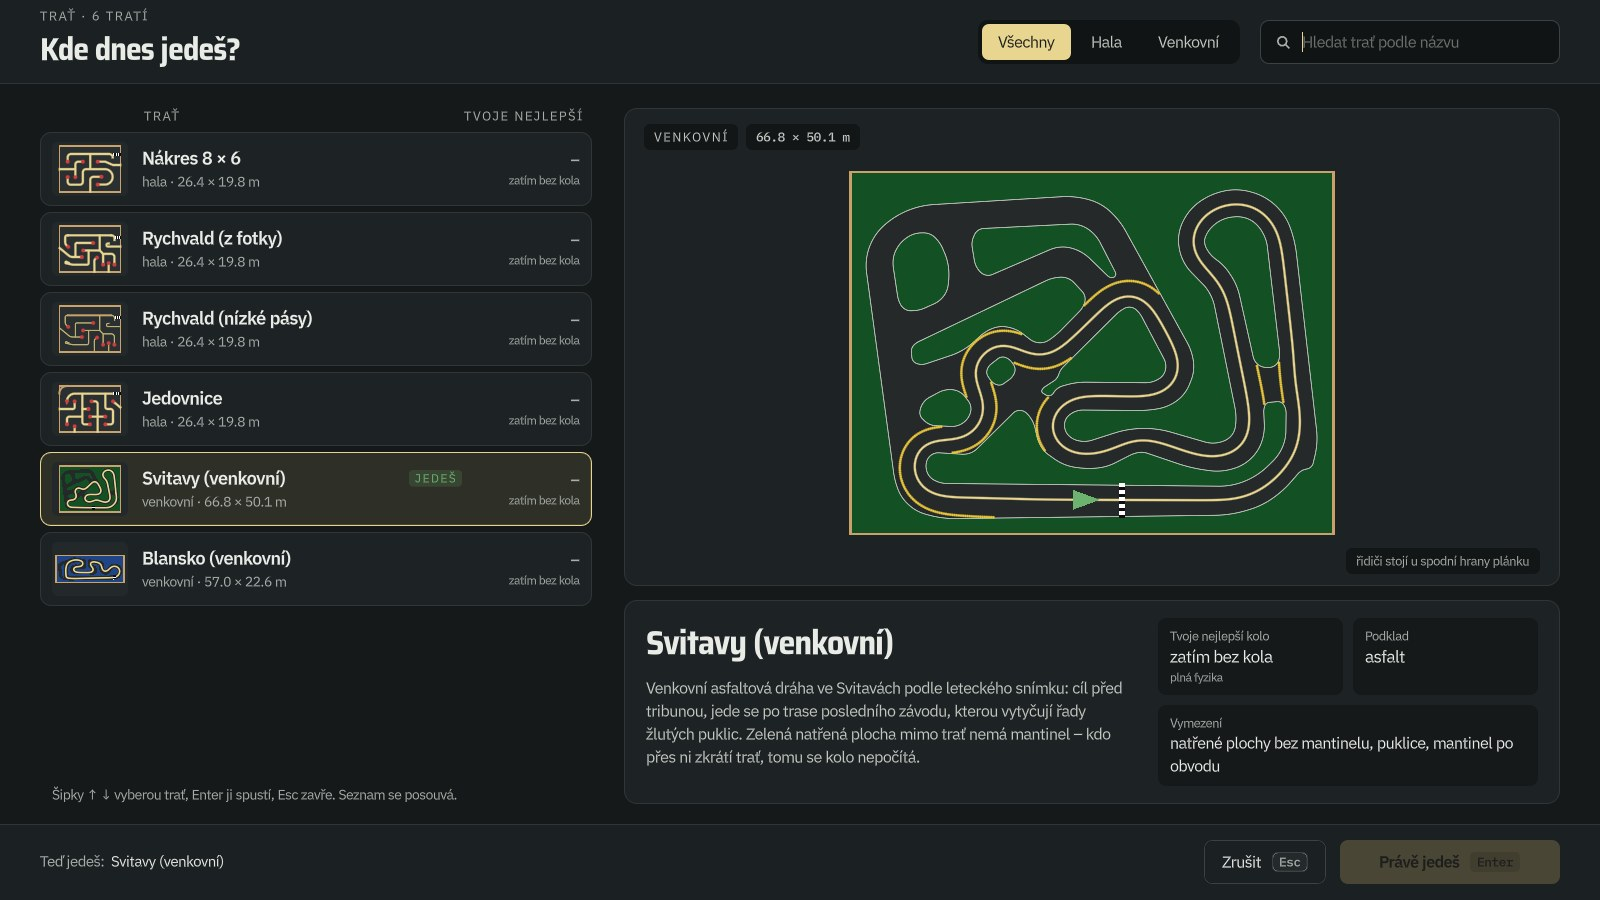
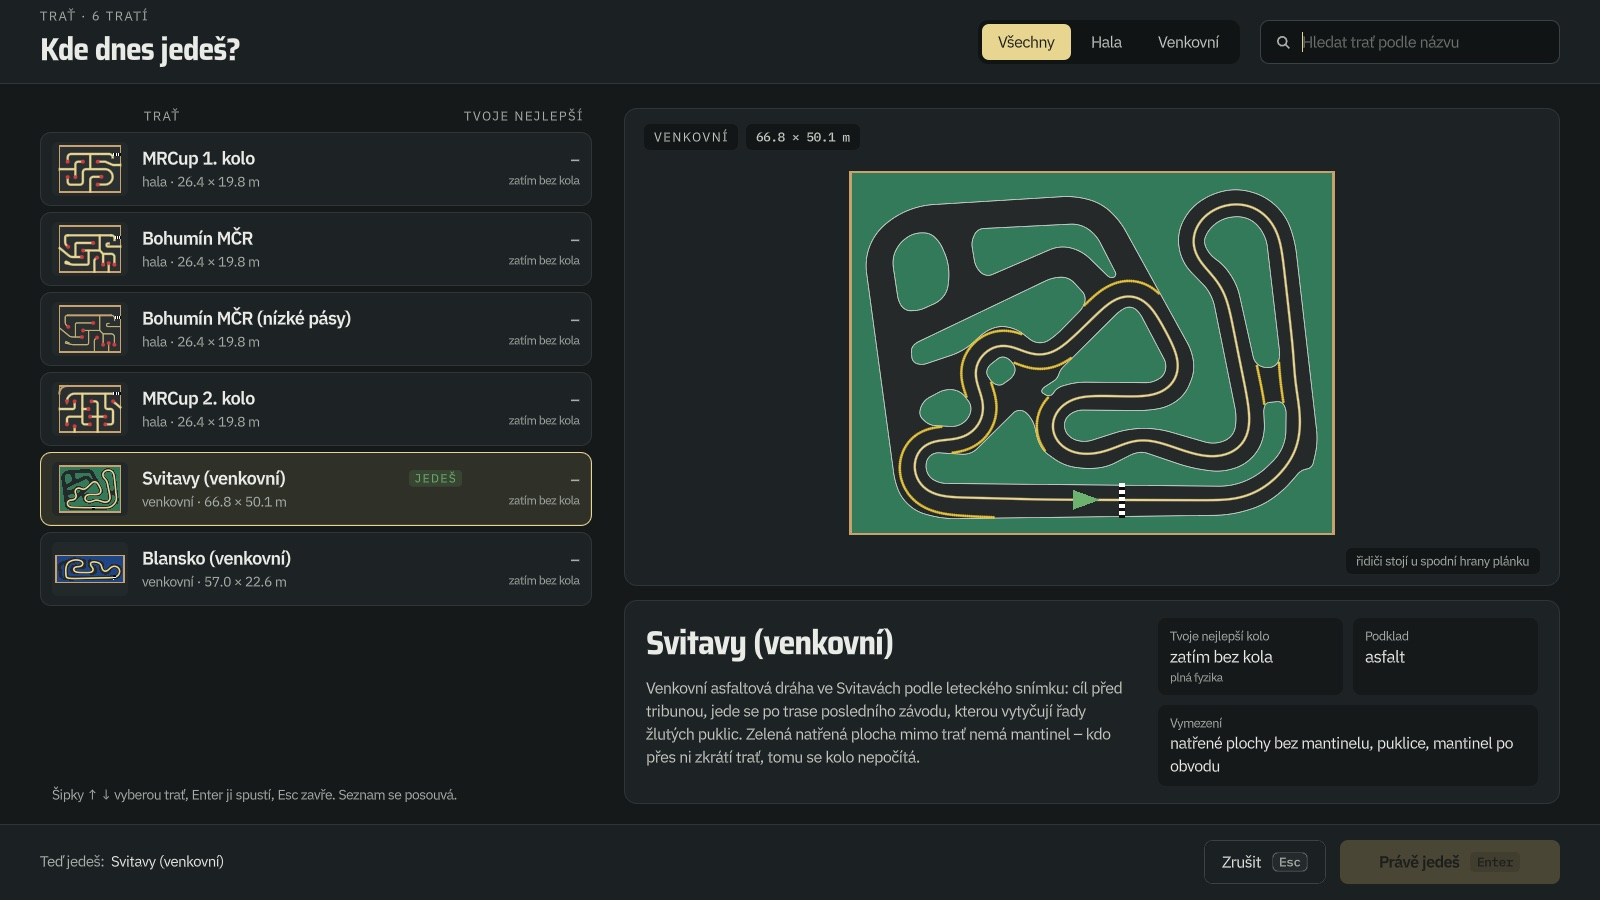
Verze 0.66: nové názvy halových drah
Tabule kol autopilota, odstavec o tratích a popisek snímku shora mají
názvy MRCup 1. kolo, MRCup 2. kolo a Bohumín MČR (anglicky MRCup round 1,
MRCup round 2 a Bohumín Nationals). Nové snímky menu a výběru trati.

diff --git a/index.html b/index.html
@@ -282,16 +282,16 @@ footer .logo-sm { flex-basis: 100%; }
           <a class="btn-line" id="download-win" href="https://github.com/ibb-jile/onroad-rc-simulator/releases/latest/download/Onroad-RC-Simulator-Windows.zip"><span lang="cs">Windows (experimentální)</span><span lang="en">Windows (experimental)</span></a>
           <a href="#install"><span lang="cs">Jak nainstalovat</span><span lang="en">How to install</span></a>
         </div>
-        <p class="facts"><span lang="cs">Verze 0.65 · macOS 13 a novější · Mac s čipem Apple (M1 a novější) · zip 70 MB</span><span lang="en">Version 0.65 · macOS 13 or later · Mac with Apple silicon (M1 or later) · 70 MB zip</span></p>
+        <p class="facts"><span lang="cs">Verze 0.66 · macOS 13 a novější · Mac s čipem Apple (M1 a novější) · zip 70 MB</span><span lang="en">Version 0.66 · macOS 13 or later · Mac with Apple silicon (M1 or later) · 70 MB zip</span></p>
         <p class="facts"><span lang="cs">Windows 10 a 11 (64bit) · experimentální sestavení, na PC už běží · zip 53 MB</span><span lang="en">Windows 10 and 11 (64-bit) · experimental build, confirmed running on a PC · 53 MB zip</span></p>
       </div>
       <aside class="board" aria-label="Lap times">
         <span class="strip" aria-hidden="true"><i></i><i></i><i></i></span>
         <h3><span lang="cs">Autopilot · nejlepší kolo</span><span lang="en">Autopilot · best lap</span></h3>
         <table>
-          <tr><td><span lang="cs">Nákres 8 × 6</span><span lang="en">Sketch 8 × 6</span></td><td class="t">13.83<small>s</small></td></tr>
-          <tr><td>Rychvald</td><td class="t">15.58<small>s</small></td></tr>
-          <tr><td>Jedovnice</td><td class="t">13.45<small>s</small></td></tr>
+          <tr><td><span lang="cs">MRCup 1. kolo</span><span lang="en">MRCup round 1</span></td><td class="t">13.83<small>s</small></td></tr>
+          <tr><td><span lang="cs">Bohumín MČR</span><span lang="en">Bohumín Nationals</span></td><td class="t">15.58<small>s</small></td></tr>
+          <tr><td><span lang="cs">MRCup 2. kolo</span><span lang="en">MRCup round 2</span></td><td class="t">13.45<small>s</small></td></tr>
           <tr><td><span lang="cs">Svitavy (venkovní)</span><span lang="en">Svitavy (outdoor)</span></td><td class="t">17.99<small>s</small></td></tr>
           <tr><td><span lang="cs">Blansko (venkovní)</span><span lang="en">Blansko (outdoor)</span></td><td class="t">12.33<small>s</small></td></tr>
         </table>
@@ -331,7 +331,7 @@ footer .logo-sm { flex-basis: 100%; }
         </div>
         <div>
           <h3><span lang="cs">Skutečné tratě</span><span lang="en">Real tracks</span></h3>
-          <p><span lang="cs">Čtyři kobercové tratě <span class="unit">26.4 × 19.8 m</span> s dělicími pásy, poklicemi a terči: Nákres 8 × 6, Jedovnice a Rychvald ve dvou podobách, s mantinely nebo s nízkými pásy, které jdou přejet. Časomíra měří kola na milisekundy a kolo se zkrácenou tratí nepočítá. K tomu dvě venkovní asfaltové dráhy s tribunou řidičů: Svitavy <span class="unit">46 × 62 m</span> a Blansko <span class="unit">57 × 23 m</span>. Na Svitavách je vybraná trasa vytyčená řadami puklic přes nepoužívané pruhy, takže je z tribuny i za autem jasné, kudy se jede.</span><span lang="en">Four carpet tracks <span class="unit">26.4 × 19.8 m</span> with dividers, dots and apex markers: Sketch 8 × 6, Jedovnice and Rychvald in two versions, with barriers or with low strips you can drive over. Lap timing to the millisecond, and a lap with a cut track does not count. Plus two outdoor asphalt tracks with a driver stand: Svitavy <span class="unit">46 × 62 m</span> and Blansko <span class="unit">57 × 23 m</span>. At Svitavy the chosen route is marked out by rows of dots across the unused lanes, so it is clear where to drive both from the driver stand and from behind the car.</span></p>
+          <p><span lang="cs">Čtyři kobercové tratě <span class="unit">26.4 × 19.8 m</span> s dělicími pásy, poklicemi a terči: MRCup 1. kolo, MRCup 2. kolo a Bohumín MČR ve dvou podobách, s mantinely nebo s nízkými pásy, které jdou přejet. Časomíra měří kola na milisekundy a kolo se zkrácenou tratí nepočítá. K tomu dvě venkovní asfaltové dráhy s tribunou řidičů: Svitavy <span class="unit">46 × 62 m</span> a Blansko <span class="unit">57 × 23 m</span>. Na Svitavách je vybraná trasa vytyčená řadami puklic přes nepoužívané pruhy, takže je z tribuny i za autem jasné, kudy se jede.</span><span lang="en">Four carpet tracks <span class="unit">26.4 × 19.8 m</span> with dividers, dots and apex markers: MRCup round 1, MRCup round 2 and Bohumín Nationals in two versions, with barriers or with low strips you can drive over. Lap timing to the millisecond, and a lap with a cut track does not count. Plus two outdoor asphalt tracks with a driver stand: Svitavy <span class="unit">46 × 62 m</span> and Blansko <span class="unit">57 × 23 m</span>. At Svitavy the chosen route is marked out by rows of dots across the unused lanes, so it is clear where to drive both from the driver stand and from behind the car.</span></p>
         </div>
         <div>
           <h3><span lang="cs">Hala podle fotek</span><span lang="en">A hall from photos</span></h3>
@@ -414,8 +414,8 @@ footer .logo-sm { flex-basis: 100%; }
           <figcaption><span lang="cs">Kvalifikace: fronta aut před cílovou bránou, hlasatel právě vyvolal auto 1.</span><span lang="en">Qualifying: the queue of cars before the finish gate, the announcer has just called car 1.</span></figcaption>
         </figure>
         <figure>
-          <img src="img/track-top.jpg" width="1228" height="900" loading="lazy" alt="Top view of the Sketch 8 × 6 carpet track with dividers, dots and apex markers">
-          <figcaption><span lang="cs">Trať Nákres 8 × 6 shora: dělicí pásy, poklice a terče.</span><span lang="en">The Sketch 8 × 6 track from above: dividers, dots and apex markers.</span></figcaption>
+          <img src="img/track-top.jpg" width="1228" height="900" loading="lazy" alt="Top view of the MRCup round 1 carpet track with dividers, dots and apex markers">
+          <figcaption><span lang="cs">Trať MRCup 1. kolo shora: dělicí pásy, poklice a terče.</span><span lang="en">The MRCup round 1 track from above: dividers, dots and apex markers.</span></figcaption>
         </figure>
         <figure>
           <img src="img/svitavy-chase.jpg" width="1600" height="900" loading="lazy" alt="Red touring car on the outdoor asphalt track Svitavy with a row of yellow dots marking the route, green painted areas and trees around">

diff --git a/src/page.html b/src/page.html
@@ -276,16 +276,16 @@ footer .logo-sm { flex-basis: 100%; }
           <a class="btn-line" id="download-win" href="https://github.com/ibb-jile/onroad-rc-simulator/releases/latest/download/Onroad-RC-Simulator-Windows.zip"><span lang="cs">Windows (experimentální)</span><span lang="en">Windows (experimental)</span></a>
           <a href="#install"><span lang="cs">Jak nainstalovat</span><span lang="en">How to install</span></a>
         </div>
-        <p class="facts"><span lang="cs">Verze 0.65 · macOS 13 a novější · Mac s čipem Apple (M1 a novější) · zip 70 MB</span><span lang="en">Version 0.65 · macOS 13 or later · Mac with Apple silicon (M1 or later) · 70 MB zip</span></p>
+        <p class="facts"><span lang="cs">Verze 0.66 · macOS 13 a novější · Mac s čipem Apple (M1 a novější) · zip 70 MB</span><span lang="en">Version 0.66 · macOS 13 or later · Mac with Apple silicon (M1 or later) · 70 MB zip</span></p>
         <p class="facts"><span lang="cs">Windows 10 a 11 (64bit) · experimentální sestavení, na PC už běží · zip 53 MB</span><span lang="en">Windows 10 and 11 (64-bit) · experimental build, confirmed running on a PC · 53 MB zip</span></p>
       </div>
       <aside class="board" aria-label="Lap times">
         <span class="strip" aria-hidden="true"><i></i><i></i><i></i></span>
         <h3><span lang="cs">Autopilot · nejlepší kolo</span><span lang="en">Autopilot · best lap</span></h3>
         <table>
-          <tr><td><span lang="cs">Nákres 8 × 6</span><span lang="en">Sketch 8 × 6</span></td><td class="t">13.83<small>s</small></td></tr>
-          <tr><td>Rychvald</td><td class="t">15.58<small>s</small></td></tr>
-          <tr><td>Jedovnice</td><td class="t">13.45<small>s</small></td></tr>
+          <tr><td><span lang="cs">MRCup 1. kolo</span><span lang="en">MRCup round 1</span></td><td class="t">13.83<small>s</small></td></tr>
+          <tr><td><span lang="cs">Bohumín MČR</span><span lang="en">Bohumín Nationals</span></td><td class="t">15.58<small>s</small></td></tr>
+          <tr><td><span lang="cs">MRCup 2. kolo</span><span lang="en">MRCup round 2</span></td><td class="t">13.45<small>s</small></td></tr>
           <tr><td><span lang="cs">Svitavy (venkovní)</span><span lang="en">Svitavy (outdoor)</span></td><td class="t">17.99<small>s</small></td></tr>
           <tr><td><span lang="cs">Blansko (venkovní)</span><span lang="en">Blansko (outdoor)</span></td><td class="t">12.33<small>s</small></td></tr>
         </table>
@@ -325,7 +325,7 @@ footer .logo-sm { flex-basis: 100%; }
         </div>
         <div>
           <h3><span lang="cs">Skutečné tratě</span><span lang="en">Real tracks</span></h3>
-          <p><span lang="cs">Čtyři kobercové tratě <span class="unit">26.4 × 19.8 m</span> s dělicími pásy, poklicemi a terči: Nákres 8 × 6, Jedovnice a Rychvald ve dvou podobách, s mantinely nebo s nízkými pásy, které jdou přejet. Časomíra měří kola na milisekundy a kolo se zkrácenou tratí nepočítá. K tomu dvě venkovní asfaltové dráhy s tribunou řidičů: Svitavy <span class="unit">46 × 62 m</span> a Blansko <span class="unit">57 × 23 m</span>. Na Svitavách je vybraná trasa vytyčená řadami puklic přes nepoužívané pruhy, takže je z tribuny i za autem jasné, kudy se jede.</span><span lang="en">Four carpet tracks <span class="unit">26.4 × 19.8 m</span> with dividers, dots and apex markers: Sketch 8 × 6, Jedovnice and Rychvald in two versions, with barriers or with low strips you can drive over. Lap timing to the millisecond, and a lap with a cut track does not count. Plus two outdoor asphalt tracks with a driver stand: Svitavy <span class="unit">46 × 62 m</span> and Blansko <span class="unit">57 × 23 m</span>. At Svitavy the chosen route is marked out by rows of dots across the unused lanes, so it is clear where to drive both from the driver stand and from behind the car.</span></p>
+          <p><span lang="cs">Čtyři kobercové tratě <span class="unit">26.4 × 19.8 m</span> s dělicími pásy, poklicemi a terči: MRCup 1. kolo, MRCup 2. kolo a Bohumín MČR ve dvou podobách, s mantinely nebo s nízkými pásy, které jdou přejet. Časomíra měří kola na milisekundy a kolo se zkrácenou tratí nepočítá. K tomu dvě venkovní asfaltové dráhy s tribunou řidičů: Svitavy <span class="unit">46 × 62 m</span> a Blansko <span class="unit">57 × 23 m</span>. Na Svitavách je vybraná trasa vytyčená řadami puklic přes nepoužívané pruhy, takže je z tribuny i za autem jasné, kudy se jede.</span><span lang="en">Four carpet tracks <span class="unit">26.4 × 19.8 m</span> with dividers, dots and apex markers: MRCup round 1, MRCup round 2 and Bohumín Nationals in two versions, with barriers or with low strips you can drive over. Lap timing to the millisecond, and a lap with a cut track does not count. Plus two outdoor asphalt tracks with a driver stand: Svitavy <span class="unit">46 × 62 m</span> and Blansko <span class="unit">57 × 23 m</span>. At Svitavy the chosen route is marked out by rows of dots across the unused lanes, so it is clear where to drive both from the driver stand and from behind the car.</span></p>
         </div>
         <div>
           <h3><span lang="cs">Hala podle fotek</span><span lang="en">A hall from photos</span></h3>
@@ -408,8 +408,8 @@ footer .logo-sm { flex-basis: 100%; }
           <figcaption><span lang="cs">Kvalifikace: fronta aut před cílovou bránou, hlasatel právě vyvolal auto 1.</span><span lang="en">Qualifying: the queue of cars before the finish gate, the announcer has just called car 1.</span></figcaption>
         </figure>
         <figure>
-          <img src="img/track-top.jpg" width="1228" height="900" loading="lazy" alt="Top view of the Sketch 8 × 6 carpet track with dividers, dots and apex markers">
-          <figcaption><span lang="cs">Trať Nákres 8 × 6 shora: dělicí pásy, poklice a terče.</span><span lang="en">The Sketch 8 × 6 track from above: dividers, dots and apex markers.</span></figcaption>
+          <img src="img/track-top.jpg" width="1228" height="900" loading="lazy" alt="Top view of the MRCup round 1 carpet track with dividers, dots and apex markers">
+          <figcaption><span lang="cs">Trať MRCup 1. kolo shora: dělicí pásy, poklice a terče.</span><span lang="en">The MRCup round 1 track from above: dividers, dots and apex markers.</span></figcaption>
         </figure>
         <figure>
           <img src="img/svitavy-chase.jpg" width="1600" height="900" loading="lazy" alt="Red touring car on the outdoor asphalt track Svitavy with a row of yellow dots marking the route, green painted areas and trees around">
